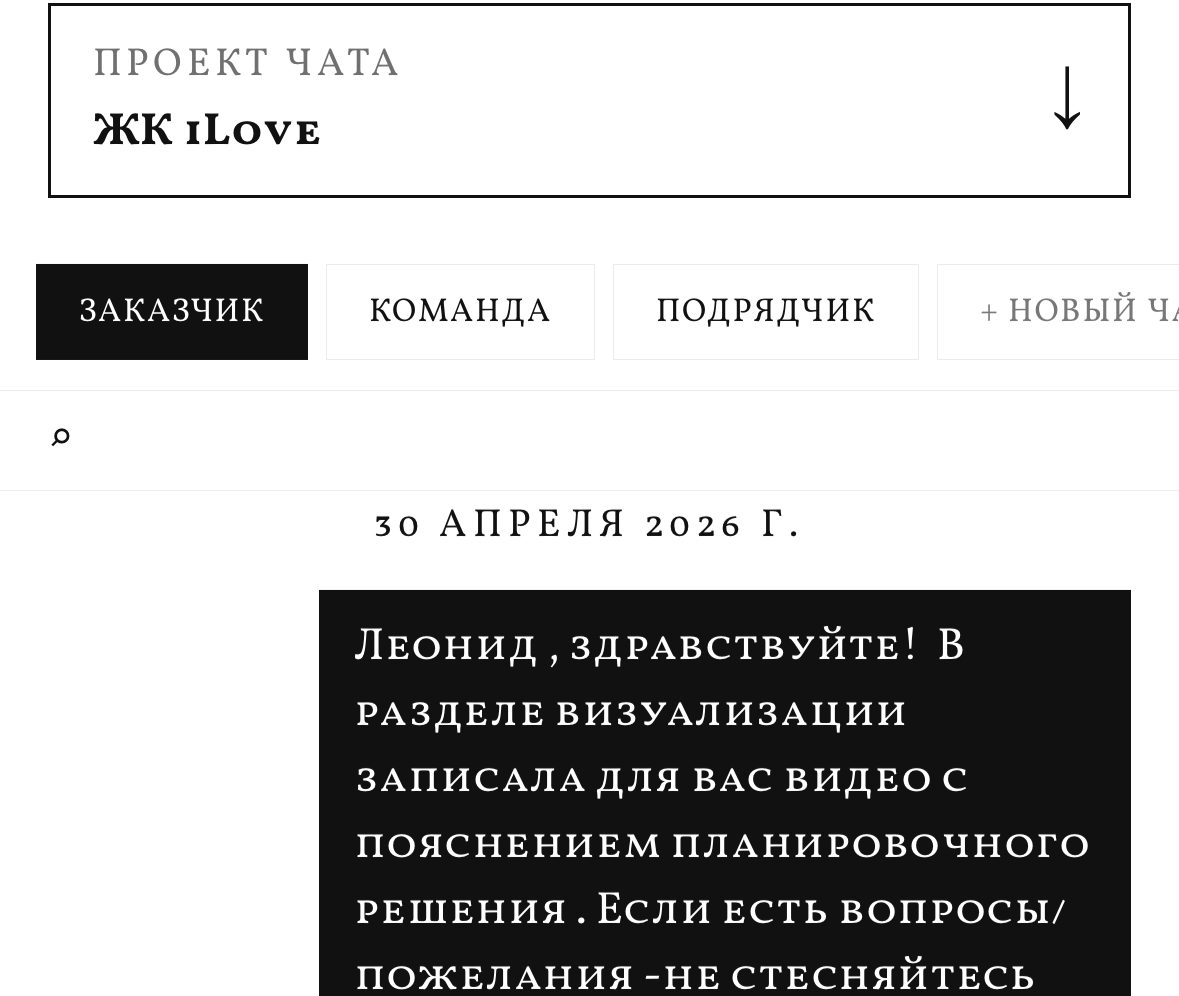
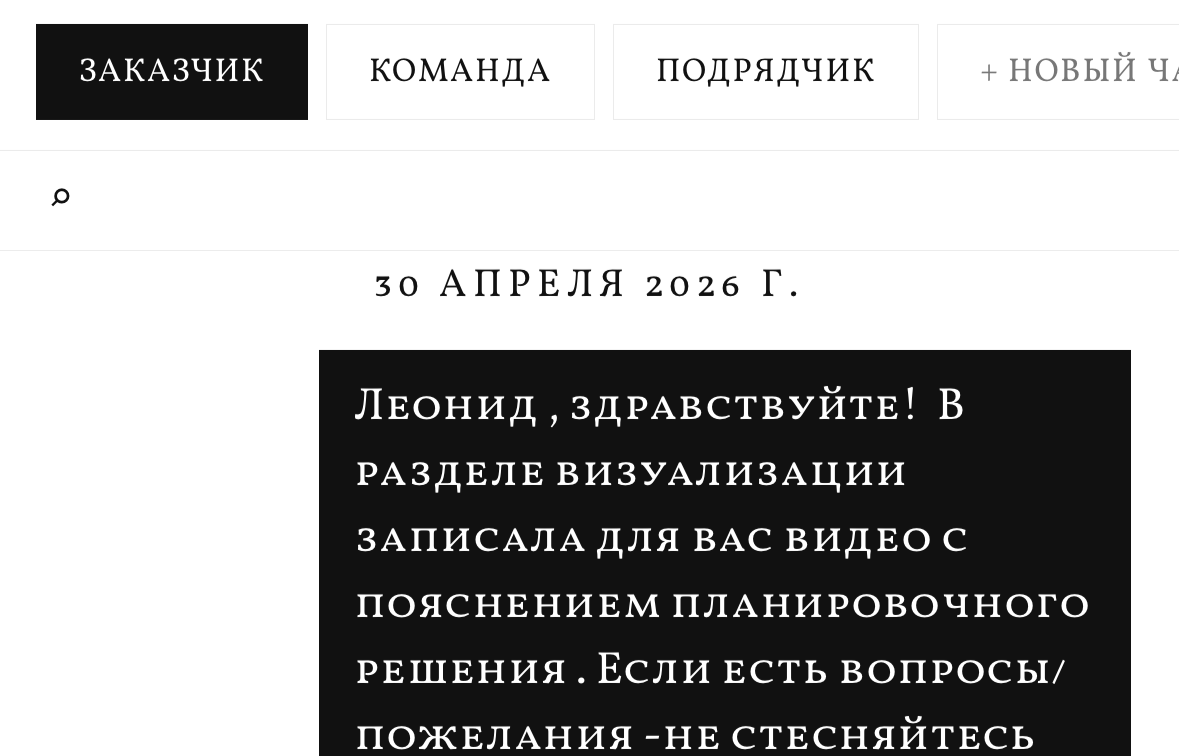
chore(landing): crop project picker bar from chat mobile shot

diff --git a/nextjs-src/src/app/landing/Landing.tsx b/nextjs-src/src/app/landing/Landing.tsx
@@ -381,7 +381,7 @@ function ModuleCopy({ m }: { m: ModuleDef }) {
 function ModuleShot({ m }: { m: ModuleDef }) {
   // Cache-buster: bump when mobile screenshots are re-cropped so Cloudflare/SW
   // and browsers don't keep the old cached image.
-  const v = "20260501";
+  const v = "20260501a";
   const mobileSrc = (m.shotSrcMobile || m.shotSrc) + `?v=${v}`;
   const desktopSrc = m.shotSrc + `?v=${v}`;
   return (
